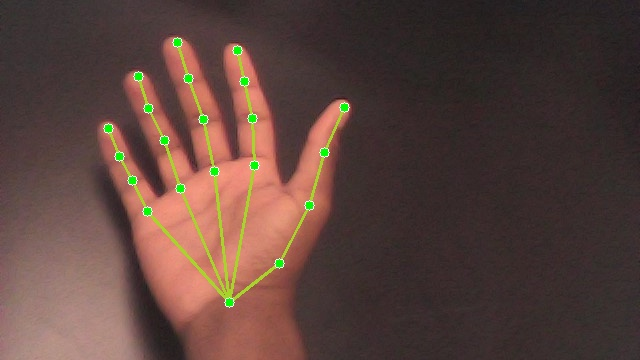
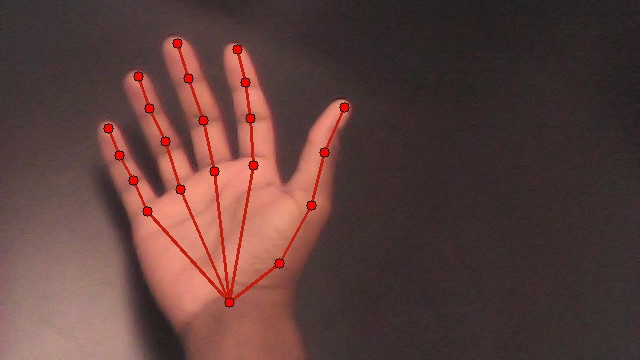
Updated frame.py and renamed with live hand tracking

diff --git a/test.py b/test.py
@@ -117,12 +117,20 @@ class TRTEngine:
         return outputs
 
 class RTMPose:
-    def __init__(self, engine):
+    def __init__(self, engine, frame_dir):
         self.engine = TRTEngine(engine)
+        self.frame_dir = Path(frame_dir)        # create the directory containing the FrameIn / FrameOut folders
         self.input_w, self.input_h = (256, 256)
-        self.conf = 0.1
+        self.vis_dir = self.frame_dir / "FrameOut"
+        self.conf = 0.3
 
     def read_image(self, image_array):
+        if isinstance(image_array, (str, Path)):
+            img = cv2.imread(str(image_array), cv2.IMREAD_COLOR)        # loads the images in BGR
+            if img is None:
+                raise FileNotFoundError(f"Could not read image: {image_array}.")
+            return img
+
         # Convert array input to NumPy array
         img = np.asarray(image_array)
         if img.ndim != 3:
@@ -246,12 +254,16 @@ class RTMPose:
             cv2.circle(vis, center, 5, (0, 0, 255), -1)         # Inner circle
             cv2.circle(vis, center, 5, (0, 0, 0), 1)      # Border circle  
         
+        
         return vis
             
-    def get_keypoints(self, left_frame, right_frame):
+    def get_keypoints(self):
         results = []
-        visuals = []
-        image_paths = [left_frame, right_frame]
+        image_paths = [
+            self.frame_dir / "FrameIn" / "left.jpeg",
+            self.frame_dir / "FrameIn" / "right.jpeg"
+        ]
+
 
         for image_path in image_paths:
             image = self.read_image(image_path)
@@ -277,6 +289,28 @@ class RTMPose:
 
             results.append(kp_coords)
             vis = self.draw_hand(image, kp_coords, scores)
-            visuals.append(vis)
+            out =  image_path.stem + ".jpeg"
+            cv2.imwrite(str(self.vis_dir / out), vis)
         
-        return results, visuals
+        return results
+    
+if __name__ == "__main__":
+    # Hardcoded paths for this specific machine/project layout.
+    ENGINE = r"C:\Users\Test\Documents\RTMPose\model.engine"
+    FRAME_DIR = r"C:\Users\Test\Documents\Hand-Tracking\VideoTracking/"
+
+    # Create the model wrapper.
+    pose = RTMPose(engine = ENGINE, frame_dir = FRAME_DIR)
+
+    # Warm up the GPU / TensorRT execution path before timing.
+    for _ in range(100):
+        _ = pose.get_keypoints()
+
+    times = []
+    for _ in range(1):
+        t0 = time.time()
+        _ = pose.get_keypoints()
+        t1 = time.time()
+        times.append(t1-t0)
+    
+print(np.mean(times))

diff --git a/VideoTracking/realtimetrack.py b/VideoTracking/realtimetrack.py
@@ -1,37 +1,34 @@
 import cv2
-from queue import Queue
+import sys
 from pynput import keyboard
 from threading import Thread
 
-CAM = 0
+sys.path.insert(1, r"C:\Users\Test\Documents\Hand-Tracking\Model")
+import keypointdetection as kp  # type: ignore
 
-class Video:
+CAM = 1
+ENGINE = r"C:\Users\Test\Documents\RTMPose\model.engine"
+class Video():
     def __init__(self, cam_index, camera):
         print(f"Initializing {camera} camera.")
 
         self.running = True
         self.cam = cv2.VideoCapture(cam_index)
-        self.frame_queue = Queue(maxsize = 1)       # Only hold one frame at a time
+        self.last_frame = None
+
+        self.pose = kp.RTMPose(ENGINE)
 
     def take_frame(self):
         while self.running:
             ret, frame = self.cam.read()
-            if not ret:
-                continue
-
-            if self.frame_queue.full():
-                try:
-                    self.frame_queue.get_nowait()
-                except:
-                    pass
-            
-            self.frame_queue.put(frame)
+            if ret:
+                self.last_frame = frame
 
     def get_frame(self):
         while self.running:
-            if not self.frame_queue.empty():
-                frame = self.frame_queue.get()
-                cv2.imshow("Hand Tracking 2D", frame)
+            if self.last_frame is not None:
+                kp_frame = self.pose.get_keypoints(self.last_frame, self.last_frame)[1][0]
+                cv2.imshow("Hand Tracking 2D", kp_frame)
                 if cv2.waitKey(1) & 0xFF == ord('q'):
                     self.quit()
                     break
